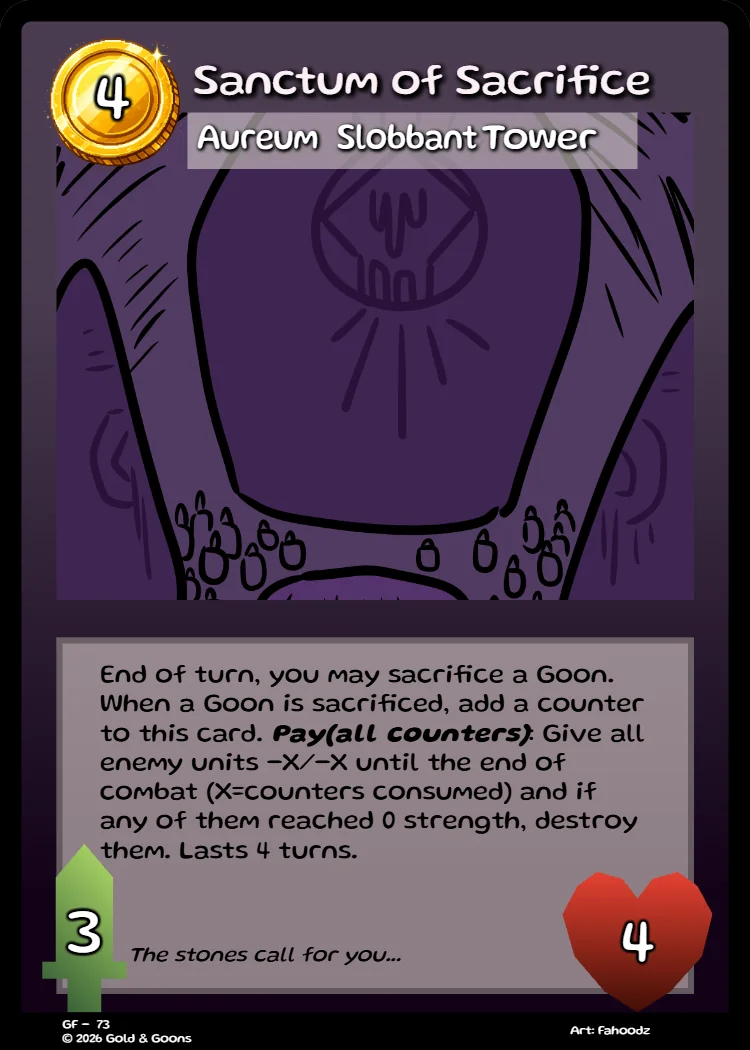
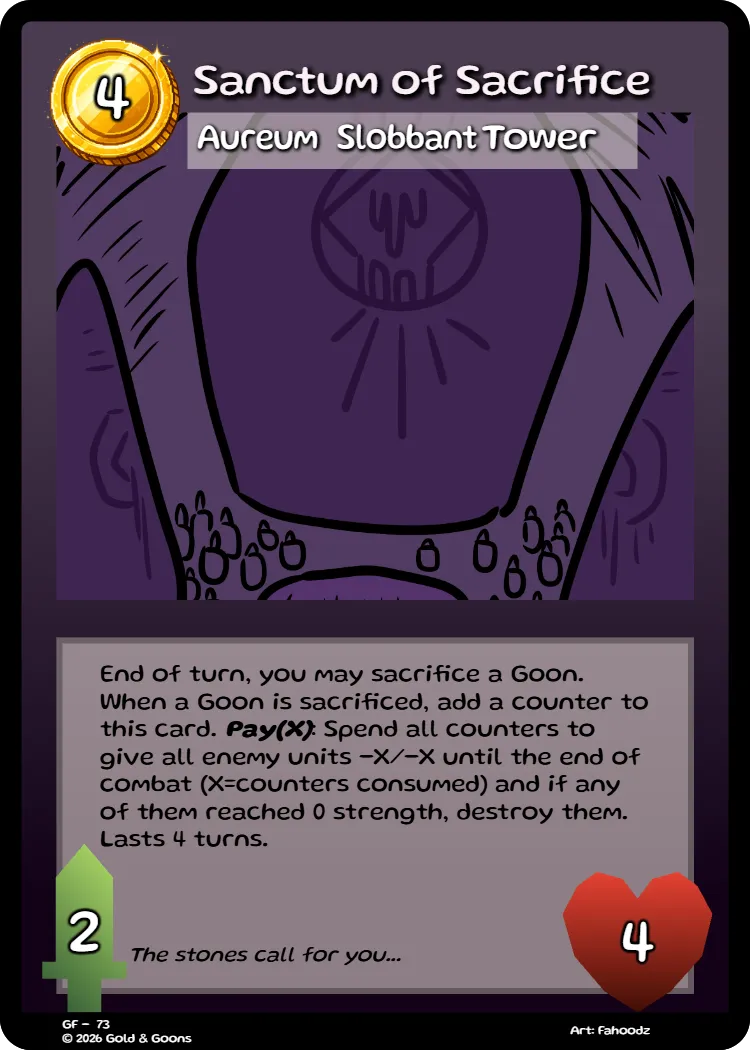
Fixed Rules

diff --git a/Gold_and_Goons_GitHub_Netlify_Ready_BonusTrack040_Update/GoldGoons_Final_Project/src/App.tsx b/Gold_and_Goons_GitHub_Netlify_Ready_BonusTrack040_Update/GoldGoons_Final_Project/src/App.tsx
@@ -1350,10 +1350,10 @@ const OFFICIAL_CARDS = [
     "tribe": "Slobbant",
     "type": "Tower",
     "cost": 4,
-    "power": 3,
+    "power": 2,
     "health": 4,
     "durability": null,
-    "ability": "End of turn, you may sacrifice a Goon. When a Goon is sacrificed, add a counter to this card. Pay(all counters): Give all enemy units -X/-X until the end of combat (X=counters consumed) and if any of them reached 0 strength, destroy them. Lasts 4 turns.",
+    "ability": "End of turn, you may sacrifice a Goon. When a Goon is sacrificed, add a counter to this card. Pay(X): Spend all counters to give all enemy units -X/-X until the end of combat (X = counters consumed). If any of them reach 0 Strength, destroy them. Lasts 4 turns.",
     "flavor": "The stones call for you...",
     "imagePath": "/cards/072.webp",
     "deckArtPath": "/deck-art/072.webp"
@@ -1372,7 +1372,7 @@ const OFFICIAL_CARDS = [
     "durability": null,
     "ability": "Start of turn, both players draw an additional card. Lasts 5 turns.",
     "flavor": "Drawin' cards since 1863!",
-    "imagePath": "/cards/073.webp",
+    "imagePath": "/cards/073.png",
     "deckArtPath": "/deck-art/073.webp"
   },
   {
@@ -1638,13 +1638,13 @@ const OFFICIAL_CARDS = [
     "rarity": "Silver",
     "tribe": "Neutral",
     "type": "Trinket",
-    "cost": 4,
+    "cost": 3,
     "power": null,
     "health": null,
     "durability": null,
-    "ability": "Equip a unit: \"When this deals damage, create a 0/3 Tabula Rasa token anywhere on the board. If there is a unit on the space where the Tabula Rasa would be, deal 1 damage to it and push it back a space if able.\"",
+    "ability": "Equip a unit: +2/+1. When this or the Trinket is removed from the board, Recall the Trinket instead. When destroyed, create a 0/3 Tabula Rasa token here.",
     "flavor": "Not imbued with terra magic? Now you are with the Tabula Nugatoria! Feel the volatile slate energy force structures into existence and violently push who dares stand in the way of your Rasa!",
-    "imagePath": "/cards/088.webp",
+    "imagePath": "/cards/089.webp",
     "deckArtPath": "/deck-art/089.webp"
   },
   {
@@ -1707,10 +1707,10 @@ const OFFICIAL_CARDS = [
     "tribe": "Neutral",
     "type": "Tower",
     "cost": 6,
-    "power": 4,
-    "health": 5,
+    "power": 5,
+    "health": 4,
     "durability": null,
-    "ability": "Air Blocker, Crossfire. End of turn, create a 0/3 Tabula Rasa token on your side. All friendly Tabula Rasa tokens have Air Blocker, Everlasting, Stack, and +1/+2. Lasts 4 turns.",
+    "ability": "Air Blocker, Crossfire, Everlasting. End of turn, create a 0/3 Tabula Rasa token on your side. All friendly Tabula Rasa tokens have Air Blocker, Everlasting, Stack, and +1/+2. Lasts 6 turns.",
     "flavor": "This towering bastion continuously spreads the reach of the Tabula and empowers the stone entities in its shadow. So immense is its influence that scholars no longer call it Tabula Rasa, it has become Tabula Inscripta.",
     "imagePath": "/cards/093.webp",
     "deckArtPath": "/deck-art/093.webp"
@@ -1996,10 +1996,10 @@ const OFFICIAL_CARDS = [
     "tribe": "Slobbant",
     "type": "Goon",
     "cost": 5,
-    "power": 2,
-    "health": 6,
+    "power": 4,
+    "health": 2,
     "durability": null,
-    "ability": "Overslimed. When revealed, destroy all other Goons with 2 or less strength.",
+    "ability": "Overslimed. When revealed, destroy all other Goons with 2 or less Strength. This gets +0/+1 for each one destroyed.",
     "flavor": "\"Blobs? Early game Goons? All I'm hearing is a buffet!\"",
     "imagePath": "/cards/110.webp",
     "deckArtPath": "/deck-art/110.webp"
@@ -2033,7 +2033,7 @@ const OFFICIAL_CARDS = [
     "power": 3,
     "health": 3,
     "durability": null,
-    "ability": "Overslimed. Trip: Destroy the triggering unit. When a card is destroyed on this column or the column in front, this gets +X/+X (x = cost of the card destroyed).",
+    "ability": "Overslimed, Paywall ((2) + 2 HP). Play this as if you were playing a Trap; it is not revealed until triggered. Trip: Destroy the triggering unit. When a card is destroyed on this column or the column in front, this gets +X/+X (X = cost of the card destroyed).",
     "flavor": "He's got a bit of a two-face personality.",
     "imagePath": "/cards/112.webp",
     "deckArtPath": "/deck-art/112.webp"
@@ -2658,11 +2658,11 @@ const OFFICIAL_CARDS = [
     "rarity": "Aureum",
     "tribe": "Neutral",
     "type": "Trick",
-    "cost": 13,
+    "cost": 9,
     "power": null,
     "health": null,
     "durability": null,
-    "ability": "Deal 3 damage to the first enemy unit in each lane, three times. If there are no enemy units in a lane, damage the opponent instead. When this destroys a unit, create a 3/3 Petravir with Sluggish on the space where the unit died.",
+    "ability": "Deal 3 damage to the first enemy unit in each lane, twice. If there are no enemy units in a lane, damage the opponent instead. When this destroys a unit, create a 3/3 Petravir with Sluggish on the space where the unit died.",
     "flavor": "With the right amount of time, this invasion of Petravirs can wipe out 80% of Goomanity.",
     "imagePath": "/cards/149.webp"
   },
@@ -4467,10 +4467,10 @@ export default function App() {
                   <p className="mx-auto mt-5 max-w-2xl text-sm leading-relaxed text-zinc-300 sm:text-lg">Learn the battlefield, discover your tribe, and master every trick, trap, and Goon standing between you and victory.</p>
 
                 </div>
-                {guideTribes.flatMap((tribe) => allCards.filter((card) => card.tribe === tribe.id && card.imagePath).slice(0, 2)).map((card, index) => {const positions=['left-[1%] top-[7%] w-20 sm:w-28 -rotate-12','right-[1%] top-[6%] w-20 sm:w-28 rotate-12','left-[10%] bottom-[3%] w-20 sm:w-28 rotate-6','right-[10%] bottom-[3%] w-20 sm:w-28 -rotate-6','left-[22%] top-[2%] w-16 sm:w-24 -rotate-6','right-[22%] top-[2%] w-16 sm:w-24 rotate-6','left-[3%] top-[48%] w-16 sm:w-24 rotate-6','right-[3%] top-[48%] w-16 sm:w-24 -rotate-6','left-[31%] bottom-[1%] w-16 sm:w-24 rotate-3','right-[31%] bottom-[1%] w-16 sm:w-24 -rotate-3','left-[39%] top-[1%] w-14 sm:w-20 -rotate-3','right-[39%] top-[1%] w-14 sm:w-20 rotate-3'];return <button key={card.id} type="button" onClick={()=>setInspectedCard(card)} aria-label={`View ${card.name}`} className={`goldex-hero-card group absolute z-10 hidden overflow-hidden rounded-lg border-2 border-red-300/50 bg-zinc-950 shadow-[0_16px_55px_rgba(0,0,0,.65)] transition-all duration-300 hover:z-30 hover:scale-110 hover:border-red-200 hover:shadow-[0_20px_70px_rgba(220,38,38,.35)] sm:block ${positions[index % positions.length]}`} style={{animationDelay:`${index*.24}s`}}><img src={card.imagePath} alt={card.name} className="aspect-[3/4] w-full object-contain transition-transform duration-300 group-hover:scale-105"/></button>})}
+                {guideTribes.flatMap((tribe) => allCards.filter((card) => card.tribe === tribe.id && card.imagePath).slice(3, 5)).map((card, index) => {const positions=['left-[1%] top-[7%] w-20 sm:w-28 -rotate-12','right-[1%] top-[6%] w-20 sm:w-28 rotate-12','left-[10%] bottom-[3%] w-20 sm:w-28 rotate-6','right-[10%] bottom-[3%] w-20 sm:w-28 -rotate-6','left-[22%] top-[2%] w-16 sm:w-24 -rotate-6','right-[22%] top-[2%] w-16 sm:w-24 rotate-6','left-[3%] top-[48%] w-16 sm:w-24 rotate-6','right-[3%] top-[48%] w-16 sm:w-24 -rotate-6','left-[31%] bottom-[1%] w-16 sm:w-24 rotate-3','right-[31%] bottom-[1%] w-16 sm:w-24 -rotate-3','left-[39%] top-[1%] w-14 sm:w-20 -rotate-3','right-[39%] top-[1%] w-14 sm:w-20 rotate-3'];return <button key={card.id} type="button" onClick={()=>setInspectedCard(card)} aria-label={`View ${card.name}`} className={`goldex-hero-card group absolute z-10 hidden overflow-hidden rounded-lg border-2 border-red-300/50 bg-zinc-950 shadow-[0_16px_55px_rgba(0,0,0,.65)] transition-all duration-300 hover:z-30 hover:scale-110 hover:border-red-200 hover:shadow-[0_20px_70px_rgba(220,38,38,.35)] sm:block ${positions[index % positions.length]}`} style={{animationDelay:`${index*.24}s`}}><img src={card.imagePath} alt={card.name} className="aspect-[3/4] w-full object-contain transition-transform duration-300 group-hover:scale-105"/></button>})}
               </div>
               <div className="relative z-20 mt-3 flex justify-center sm:hidden"><span className="rounded-full border border-red-500/30 bg-zinc-950/90 px-4 py-2 text-[10px] font-black tracking-widest text-red-300">TAP A CARD BELOW TO EXPLORE</span></div>
-              <div className="relative z-20 mx-auto mt-5 grid max-w-3xl grid-cols-3 gap-2 sm:hidden">{guideTribes.map((tribe)=>{const card=allCards.find((entry)=>entry.tribe===tribe.id && entry.imagePath);return card?<button key={tribe.id} type="button" onClick={()=>setInspectedCard(card)} aria-label={`View ${tribe.name} card ${card.name}`} className="overflow-hidden rounded-lg border border-zinc-700 bg-zinc-900 p-1 transition-transform active:scale-95"><img src={card.imagePath} alt={`${tribe.name}: ${card.name}`} className="aspect-[3/4] w-full object-contain"/><span className="block truncate px-1 py-1 text-[10px] font-bold text-zinc-300">{tribe.name}</span></button>:null})}</div>
+              <div className="relative z-20 mx-auto mt-5 grid max-w-3xl grid-cols-3 gap-2 sm:hidden">{guideTribes.map((tribe)=>{const card=allCards.filter((entry)=>entry.tribe===tribe.id && entry.imagePath)[3];return card?<button key={tribe.id} type="button" onClick={()=>setInspectedCard(card)} aria-label={`View ${tribe.name} card ${card.name}`} className="overflow-hidden rounded-lg border border-zinc-700 bg-zinc-900 p-1 transition-transform active:scale-95"><img src={card.imagePath} alt={`${tribe.name}: ${card.name}`} className="aspect-[3/4] w-full object-contain"/><span className="block truncate px-1 py-1 text-[10px] font-bold text-zinc-300">{tribe.name}</span></button>:null})}</div>
             </section>
 
             <section className="grid gap-4 py-7 md:grid-cols-2" aria-label="More ways to learn Gold and Goons">
